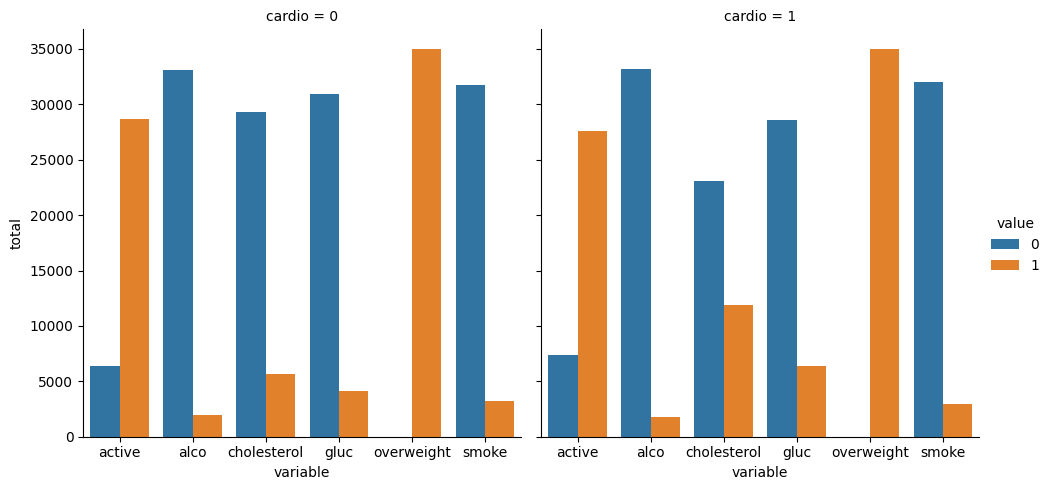
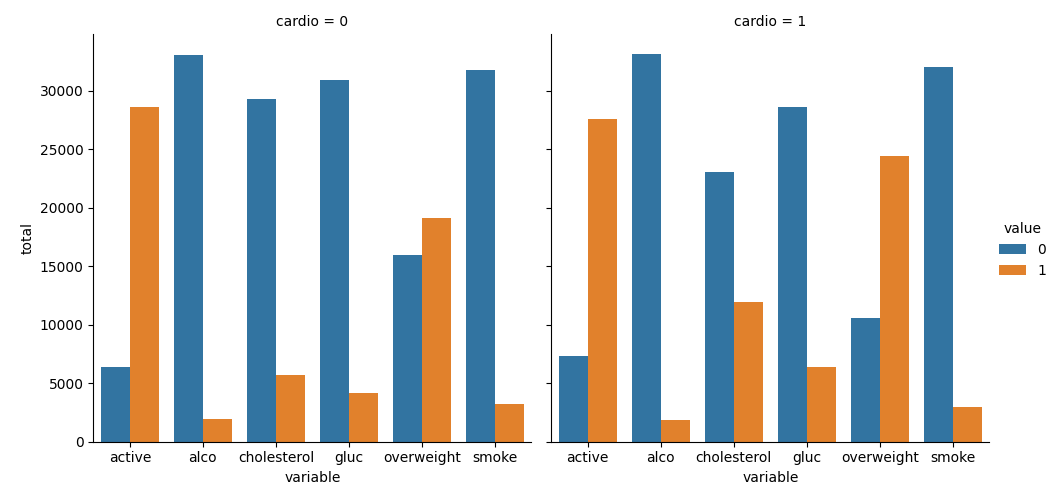
finished medical data visualizer

diff --git a/medical-data-visualizer/medical_data_visualizer.py b/medical-data-visualizer/medical_data_visualizer.py
@@ -7,10 +7,12 @@ import numpy as np
 df = pd.read_csv("medical_examination.csv")
 
 # Add 'overweight' column
-df["overweight"] = (df["weight"] / df["height"] * df["height"]) > 25
+df["overweight"] = (df["weight"] / ((df["height"]/100) ** 2)) > 25
 
 df.loc[df["overweight"] == True, "overweight"] = 1
 df.loc[df["overweight"] == False, "overweight"] = 0
+
+df.overweight = pd.to_numeric(df["overweight"])
 
 # Normalize data by making 0 always good and 1 always bad. If the value of 'cholesterol' or 'gluc' is 1, make the value 0. If the value is more than 1, make the value 1.
 
@@ -35,7 +37,7 @@ def draw_cat_plot():
     cplot = sns.catplot(data=df_cat, x="variable", y="total", col="cardio", kind="bar", hue="value")
 
     # Get the figure for the output
-    fig = cplot
+    fig = cplot.fig
 
 
     # Do not modify the next two lines
